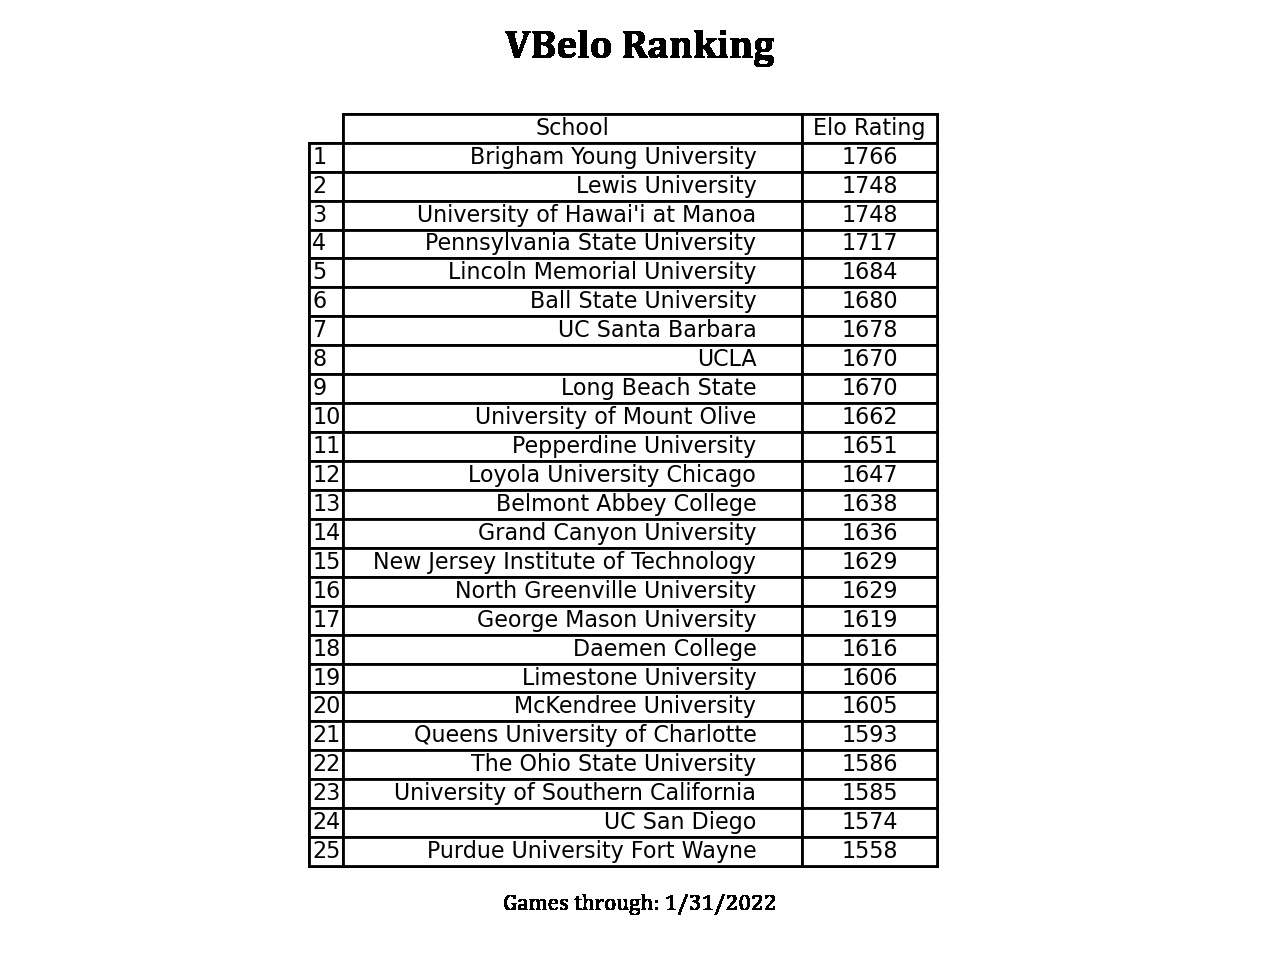
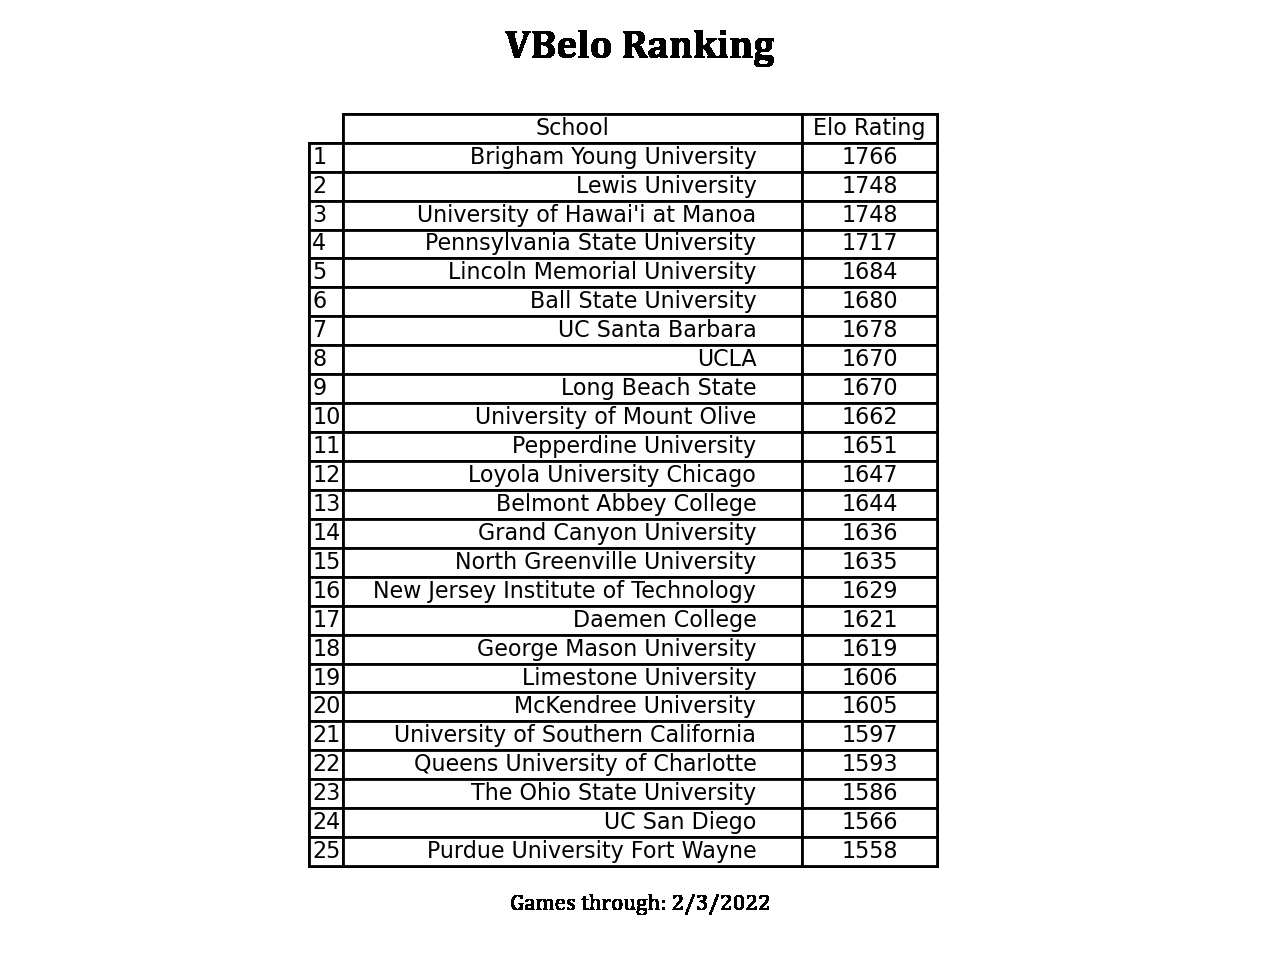
Games through 2/3/22

diff --git a/src/twitter_daily.py b/src/twitter_daily.py
@@ -27,4 +27,4 @@ def tweet(date):
                     team2 = teams[x]['twitter']
             text += (f'{team1} ({team1p}%) vs {team2} ({team2p}%)\n')
     print(text)
-tweet('1/31/2022')
+tweet('2/3/2022')
